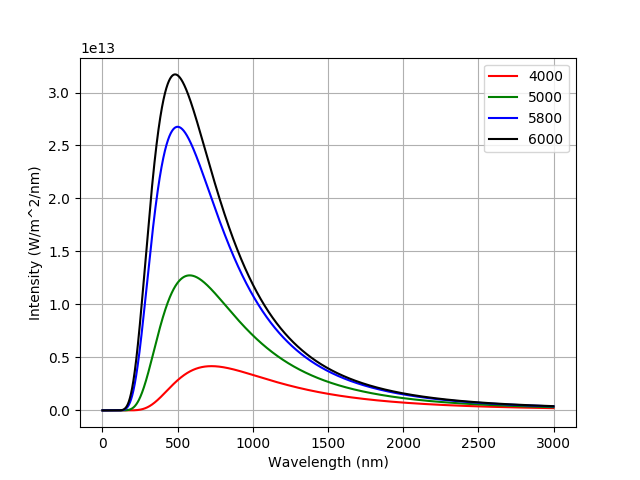
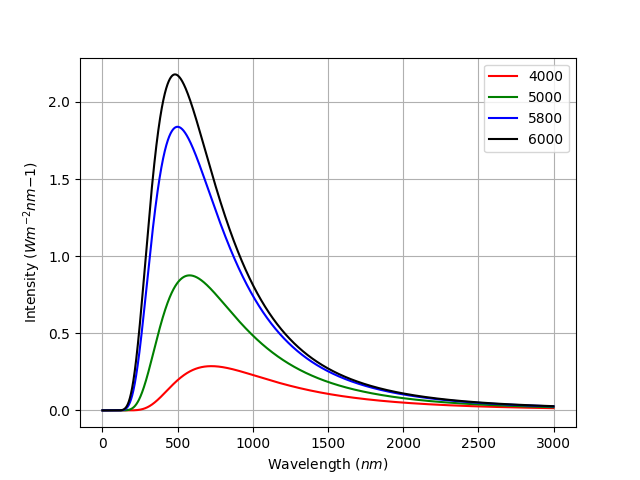
Section on photoelectron in theoretical background first draft

diff --git a/sections/TheoreticalBackground.tex b/sections/TheoreticalBackground.tex
@@ -189,7 +189,7 @@ Where $T_e$ denotes the electron temperature, $n_{\infty}$ is the density of ele
 
 Assuming $e \phi \lll T_e$, then it is reasonable to only keep the linear terms of the Taylor expansion of the $\exp (\frac{e \phi}{T_e})$ term on the right hand side of equation \ref{eq:poissonDebye}. Poisson's equation then takes the form
 
-\begin{equation}
+\begin{equation}\label{eq:poissonSimple}
     \laplacian{\phi} - \frac{1}{\lambda_D^2} \phi = 0
 \end{equation}
 
@@ -200,7 +200,7 @@ Where the Debye length $\lambda_D$ has been defined as follows:
     \lambda_d \equiv \sqrt{\frac{\epsilon_0 k T_e}{n_e e^2}}
 \end{equation}
 
-The solution of equation \ref{eq:Helmholtz} takes the form
+The solution of equation \ref{eq:poissonSimple} takes the form
 
 \begin{equation*}
     V \propto \exp (\frac{\pm x}{\lambda_D})
@@ -296,7 +296,7 @@ Integrating the particle distribution $f_s(\vb{x}, \vb{v}, t)$ using equation \r
     \eta_s \equiv - \frac{q_s V}{k T_s}
 \end{equation}
 
-Using the normalized potential, particles with $n_s < 0$ will be repelled, and particles with $n_s > 0$ will be attracted to the spacecraft \insertref{Marholm Ph.d ch 3.1}. Expressions for the integration of the particle distribution has been found for some simple geometries, for species with $n_s > 0$ with the assumption of a plasma with no internal magnetic field, and zero drift by Mott-Smith and Langmuir \insertref{Mott-Smith and Langmuir}
+Using the normalized potential, particles with $n_s < 0$ will be repelled, and particles with $n_s > 0$ will be attracted to the spacecraft \insertref{Marholm Ph.d ch 3.1}. Expressions for the integration of the particle distribution has been found for some simple geometries, for species with $n_s > 0$ with the assumption of a plasma with no internal magnetic field and zero drift, by Mott-Smith and Langmuir \insertref{Mott-Smith and Langmuir}
 
 \begin{subequations}
     \begin{align}
@@ -377,7 +377,7 @@ Both the photoelectron yield, and the reflectance of the spacecraft material is 
     J_{ph}(\theta) = \int^\infty_0 f_s(\omega) Y^{*}[\omega, R(\omega, \theta)][1 - R(\omega, \theta)] \cos \theta \; d\omega
 \end{equation}
 
-Where $Y^{*}(\omega, R(\omega, \theta)$ is the photoelectron yield per \emph{absorbed} photon. Using estimates for terms $Y^{*}$ and $1 - R(\omega, \theta)$ and cancelling cosine terms in the product, equation \ref{eq:phCurrentFull} becomes
+Where $Y^{*}(\omega, R(\omega, \theta))$ is the photoelectron yield per \emph{absorbed} photon. Using estimates for terms $Y^{*}$ and $1 - R(\omega, \theta)$ and cancelling cosine terms in the product, equation \ref{eq:phCurrentFull} becomes
 
 \begin{subequations}
     \begin{align}
@@ -387,29 +387,67 @@ Where $Y^{*}(\omega, R(\omega, \theta)$ is the photoelectron yield per \emph{abs
 \end{subequations}
 
 
-Finally, an expression for the photoelectron current $I_{ph}(\theta)$ can be expressed as 
+Finally, the photoelectron current $I_{ph}(\theta)$ can be expressed as 
 
 \begin{equation}\label{eq:phCurrent}
     I_{ph}(\theta) = J_{ph}(0) A \cos \theta 
 \end{equation}
 
-Inserting equation \ref{eq:phCurrent} into equation \ref{eq:currentBalance}, the floating potential for a spacecraft subject to photoelectric and ambient plasma charging can be computed.
+Where $A$ is the surface area of the spacecraft exposed to sunlight. Inserting equation \ref{eq:phCurrent} into equation \ref{eq:currentBalance}, and with a known photon flux from blackbody radiation theory, the floating potential for a spacecraft subject to photoelectric and ambient plasma charging can be computed.
 
-\subsubsection*{Blackbody radiation}
+\subsubsection*{The sun as a blackbody radiation source}
+In the previous section, an expression for the photoelectron current was shown. If we are to compute the floating potential of a spacecraft, it is necessary to either know the value of the photoelectron current a priori or to compute its value based on the amount of photon flux through the spacecraft surface. In this section we discuss the theory of blackbody radiation as a method of computing solar photon flux.
+\\
+A blackbody is an object in thermodynamic equilibrium that absorbs all frequencies of radiation, without reflecting any of the incoming radiation\insertref{Kirchhoff, 1860, Annalen der Physik und Chemie}. In Planck's seminal paper on the theory of heat radiation, Planck gives the following three conditions that a blackbody must satisfy \insertref{Planck, The theory of heat radiation, translation, p10.}
+
+\begin{quote}
+    First, the body must have a black surface in order to allow the incident rays to enter without reflection. [...] Second, the black body must have a certain minimum thickness depending on its absorbing power, in order to insure that the rays after passing into the body shall not leave it again at a different point of the surface. [...] Third, the black body must have a vanishingly small coefficient of scattering. Otherwise the rays received by it would be partly scattered in the interior and might leave again through the surface
+\end{quote}
+
+The sun does not perfectly absorb all frequencies of electromagnetic radiation, and neither is it in perfect thermodynamic equilibrium; sunspots have a measurably lower temperature than the surrounding photosphere \insertref{The
+observations also suggest that the coronal temperature above sunspots is lower than in
+their surroundings, Sunspots: An overview}. However, energy absorbed and emitted by the sun is in steady state and can therefore be approximated as a black body radiator. 
+//
+In "The theory of heat radiation" Planck derives the following expression for the energy density of the radiation emitted by a blackbody  
+
+\begin{equation}\label{eq:planckFreq}
+    B(\nu, T) = \frac{2 h \nu^3}{c^2} \frac{1}{\exp(\frac{h \nu}{k_B T}) - 1}
+\end{equation}
+
+Where $\nu$ is the frequency of the electromagnetic radiation emitted, $T$ is the temperature of the blackbody measured in Kelvin, $c$ is the speed of light, $h$ is the planck's constant, and $k_b$ is the Boltzmann constant. Equation \ref{eq:planckFreq} is called Planck's law, and can be similarly expressed in terms of the wavelength of the radiation $\lambda$.
+
+\begin{equation}\label{eq:planckWave}
+    B(\lambda, T) = \frac{2 h c^2}{\lambda^5} \frac{1}{\exp(\frac{hc}{\lambda k_B T}) - 1}
+\end{equation}
+
+\newpage
+
+\begin{figure}[h!]
+    \centering
+    \includegraphics[scale=0.6]{figures/blackbody.png}
+    \caption{Irradiance of blackbody radiation for different temperatures}
+    \label{fig:blackbody}
+\end{figure}
+
+Figure \ref{fig:blackbody} plots the irradiance for some values of $T$, the suns radiative output can be approximated by assuming a blackbody temperature $T \approx 5800 K$, shown in the figure as a blue line.
+ \\
+The radiation calculated from equation \ref{eq:planckFreq} are commonly given in the units $W m^{-2} Sr^{-1} nm^{-1}$, called spectral radiance, it is the radiance of a surface per unit wavelength. In figure \ref{fig:blackbody}, the radiance is multiplied by the ratio $\frac{R_{\odot}}{a_{\oplus}}$ (where $R_{\odot}$ is the radius of the Earth, and $a_{\oplus}$ is the solar radius) to give the spectral irradiance as measured on earth, the units then are given as  $W ^{-2} m^{-2} nm^{-1}$.
+\\
+\insertref{The solar reference spectrum in April 2008 as recorded by the Solar instrument on the International Space Station. \url{https://www.esa.int/ESA_Multimedia/Images/2017/12/Solar_spectrum}}
+
+\begin{figure}[h!]
+    \centering
+    \includegraphics[scale=0.6]{figures/solarspectrum.png}
+    \caption{Solar irradiance as measured onboard the International Space Station}
+    \label{fig:solIrradiance}
+\end{figure}
+
+\newpage
+
+Comparing figure \ref{fig:blackbody} to figure \ref{fig:solIrradiance}, it can be seen that asside from smaller fluctuations in spectral radiation lines, our approximation of the sun as a blackbody emitter is a good one. Given the workfunction (or more accurately, the cut-off wavelength) of the material composition of our spacecraft, and assuming a photoelectron yield of one photoelectron to one photon under the cut-off wavelength, integrating equation \ref{eq:planckWave} gives the photoelectron flux. Integrating planck's law for a given frequency band is non-trivial, in \ref{sec:methods}, the method outlined by Widger and Woodall \insertref{Integration of Planck blackbody radiation function, Widger \& Woodall} is presented, and a C function for computing the integral numerically is given. 
 
 
 
-
-
-
-
-
-% \begin{figure}[h!]
-%     \centering
-%     \includegraphics[scale=0.70]{figures/blackbody.png}
-%     \caption{Intensity of blackbody radiation for different temperatures}
-%     \label{fig:blackbody}
-% \end{figure}
 
 
 \subsection*{Secondary and backscattered electrons}
